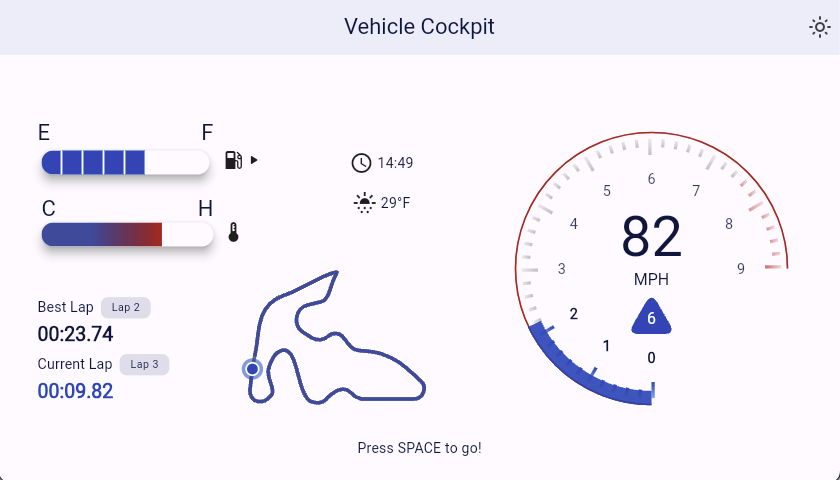
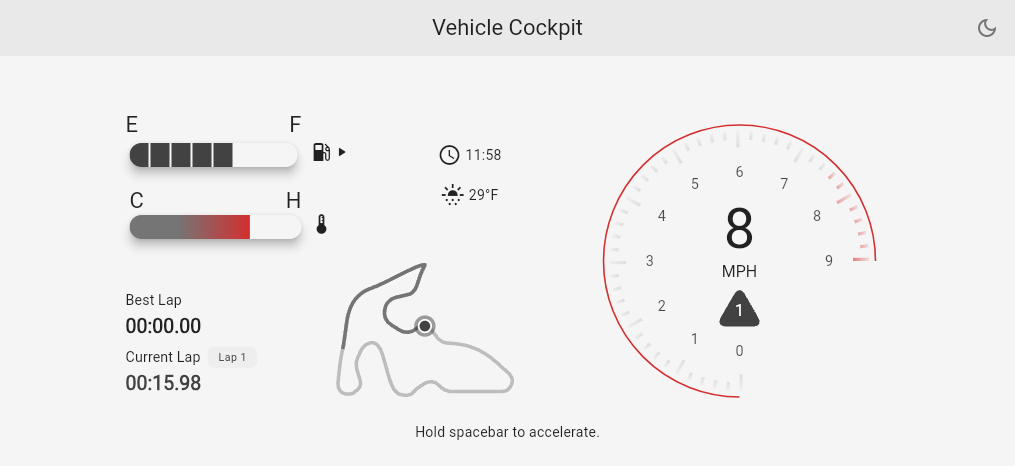
chore: update theme

diff --git a/lib/ui/app_theme.dart b/lib/ui/app_theme.dart
@@ -19,32 +19,32 @@ class AppTheme {
   ColorScheme get _colorScheme {
     return const ColorScheme(
       brightness: Brightness.light,
-      primary: Color(0xFF015AC1),
-      onPrimary: Color(0xFFFFFFFF),
-      primaryContainer: Color(0xFFD8E2FF),
-      onPrimaryContainer: Color(0xFF001A41),
-      secondary: Color(0xFF345CA8),
-      onSecondary: Color(0xFFFFFFFF),
-      secondaryContainer: Color(0xFFD9E2FF),
-      onSecondaryContainer: Color(0xFF001A43),
-      tertiary: Color(0xFF84468E),
-      onTertiary: Color(0xFFFFFFFF),
-      tertiaryContainer: Color(0xFFFFD6FF),
-      onTertiaryContainer: Color(0xFF350040),
-      error: Color(0xFFBA1A1A),
-      errorContainer: Color(0xFFFFDAD6),
-      onError: Color(0xFFFFFFFF),
-      onErrorContainer: Color(0xFF410002),
-      surface: Color(0xFFFEFBFF),
-      onSurface: Color(0xFF001945),
-      surfaceContainerHighest: Color(0xFFE1E2EC),
-      onSurfaceVariant: Color(0xFF44474F),
-      outline: Color(0xFF75777F),
-      onInverseSurface: Color(0xFFEEF0FF),
-      inverseSurface: Color(0xFF002C6F),
-      inversePrimary: Color(0xFFADC6FF),
-      shadow: Color(0xFF000000),
-      surfaceTint: Color(0xFF015AC1),
+      primary: Color(0xFF424242), // Medium Gray
+      onPrimary: Color(0xFFFFFFFF), // White
+      primaryContainer: Color(0xFFBDBDBD), // Light Gray
+      onPrimaryContainer: Color(0xFF212121), // Dark Gray
+      secondary: Color(0xFF757575), // Gray
+      onSecondary: Color(0xFFFFFFFF), // White
+      secondaryContainer: Color(0xFFD7CCC8), // Very Light Gray
+      onSecondaryContainer: Color(0xFF494949), // Medium Dark Gray
+      tertiary: Color(0xFF616161), // Darker Gray
+      onTertiary: Color(0xFFFFFFFF), // White
+      tertiaryContainer: Color(0xFFB0BEC5), // Light Blue Gray
+      onTertiaryContainer: Color(0xFF37474F), // Dark Blue Gray
+      error: Color(0xFFD32F2F), // Red
+      errorContainer: Color(0xFFFFCDD2), // Light Red
+      onError: Color(0xFFFFFFFF), // White
+      onErrorContainer: Color(0xFFC62828), // Dark Red
+      surface: Color(0xFFF5F5F5), // Very Light Gray
+      onSurface: Color(0xFF212121), // Almost Black
+      surfaceContainerHighest: Color(0xFFEEEEEE), // Very Light Gray
+      onSurfaceVariant: Color(0xFF757575), // Medium Gray
+      outline: Color(0xFFBDBDBD), // Light Gray
+      onInverseSurface: Color(0xFFFAFAFA), // Very Light Gray
+      inverseSurface: Color(0xFF212121), // Almost Black
+      inversePrimary: Color(0xFF424242), // Medium Gray
+      shadow: Color(0xFF000000), // Black
+      surfaceTint: Color(0xFF424242), // Medium Gray
     );
   }
 }
@@ -60,32 +60,32 @@ class AppDarkTheme extends AppTheme {
   ColorScheme get _colorScheme {
     return const ColorScheme(
       brightness: Brightness.dark,
-      primary: Color(0xFFADC6FF),
-      onPrimary: Color(0xFF002E69),
-      primaryContainer: Color(0xFF004494),
-      onPrimaryContainer: Color(0xFFD8E2FF),
-      secondary: Color(0xFFAFC6FF),
-      onSecondary: Color(0xFF002D6C),
-      secondaryContainer: Color(0xFF15448F),
-      onSecondaryContainer: Color(0xFFD9E2FF),
-      tertiary: Color(0xFFF6ADFE),
-      onTertiary: Color(0xFF50155C),
-      tertiaryContainer: Color(0xFF692E74),
-      onTertiaryContainer: Color(0xFFFFD6FF),
-      error: Colors.pink,
-      errorContainer: Color(0xFF93000A),
-      onError: Color(0xFF690005),
-      onErrorContainer: Color(0xFFFFDAD6),
-      surface: Color(0xFF224B93),
-      onSurface: Color(0xFFD9E2FF),
-      surfaceContainerHighest: Color(0xFF44474F),
-      onSurfaceVariant: Color(0xFFC4C6D0),
-      outline: Color(0xFF8E9099),
-      onInverseSurface: Color(0xFF001945),
-      inverseSurface: Color(0xFFD9E2FF),
-      inversePrimary: Color(0xFF015AC1),
-      shadow: Color(0xFF000000),
-      surfaceTint: Color(0xFFADC6FF),
+      primary: Color(0xFFE0E0E0), // Light Gray
+      onPrimary: Color(0xFF1F1F1F), // Dark Gray
+      primaryContainer: Color(0xFF373737), // Medium Gray
+      onPrimaryContainer: Color(0xFFE0E0E0), // Light Gray
+      secondary: Color(0xFFB0BEC5), // Light Blue Gray
+      onSecondary: Color(0xFF263238), // Dark Blue Gray
+      secondaryContainer: Color(0xFF455A64), // Medium Blue Gray
+      onSecondaryContainer: Color(0xFFB0BEC5), // Light Blue Gray
+      tertiary: Color(0xFF5D737E), // Muted Blue
+      onTertiary: Color(0xFFFFFFFF), // White
+      tertiaryContainer: Color(0xFF455A64), // Medium Blue Gray
+      onTertiaryContainer: Color(0xFFB0BEC5), // Light Blue Gray
+      error: Color(0xFFCF6679), // Pink
+      errorContainer: Color(0xFFB00020), // Red
+      onError: Color(0xFFFFFFFF), // White
+      onErrorContainer: Color(0xFF370B1E), // Dark Red
+      surface: Color(0xFF121212), // Black
+      onSurface: Color(0xFFE0E0E0), // Light Gray
+      surfaceContainerHighest: Color(0xFF2C2C2C), // Medium Gray
+      onSurfaceVariant: Color(0xFF737373), // Gray
+      outline: Color(0xFF8A8A8A), // Light Gray
+      onInverseSurface: Color(0xFF121212), // Black
+      inverseSurface: Color(0xFFE0E0E0), // Light Gray
+      inversePrimary: Color(0xFF1F1F1F), // Dark Gray
+      shadow: Color(0xFF000000), // Black
+      surfaceTint: Color(0xFFE0E0E0), // Light Gray
     );
   }
 }

diff --git a/lib/theme_button/view/theme_button.dart b/lib/theme_button/view/theme_button.dart
@@ -9,14 +9,15 @@ class ThemeButton extends StatelessWidget {
   @override
   Widget build(BuildContext context) {
     final theme = context.watch<ThemeModeCubit>().state;
-    return Align(
+    return Padding(
+      padding: const EdgeInsets.symmetric(horizontal: AppSpacing.sm),
       child: InkWell(
         onTap: () => context.read<ThemeModeCubit>().toggle(),
         customBorder: const CircleBorder(),
         child: Padding(
           padding: const EdgeInsets.all(AppSpacing.sm),
           child: Icon(
-            theme.isLightTheme
+            !theme.isLightTheme
                 ? Icons.light_mode_outlined
                 : Icons.dark_mode_outlined,
           ),

diff --git a/lib/app/view/app.dart b/lib/app/view/app.dart
@@ -8,6 +8,7 @@ class App extends StatelessWidget {
   @override
   Widget build(BuildContext context) {
     return MaterialApp(
+      debugShowCheckedModeBanner: false,
       theme: ThemeData(
         appBarTheme: AppBarTheme(
           backgroundColor: Theme.of(context).colorScheme.inversePrimary,
